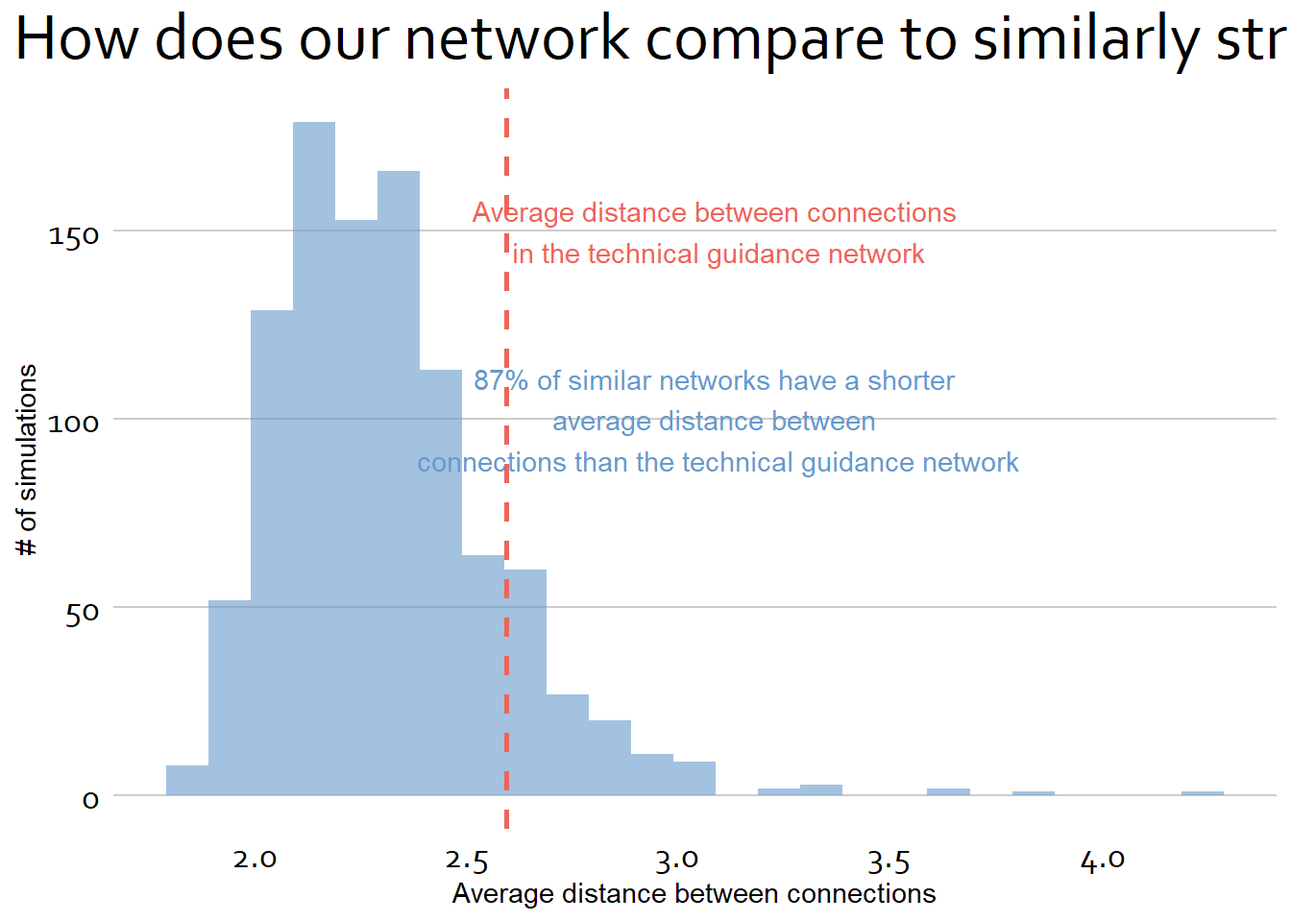
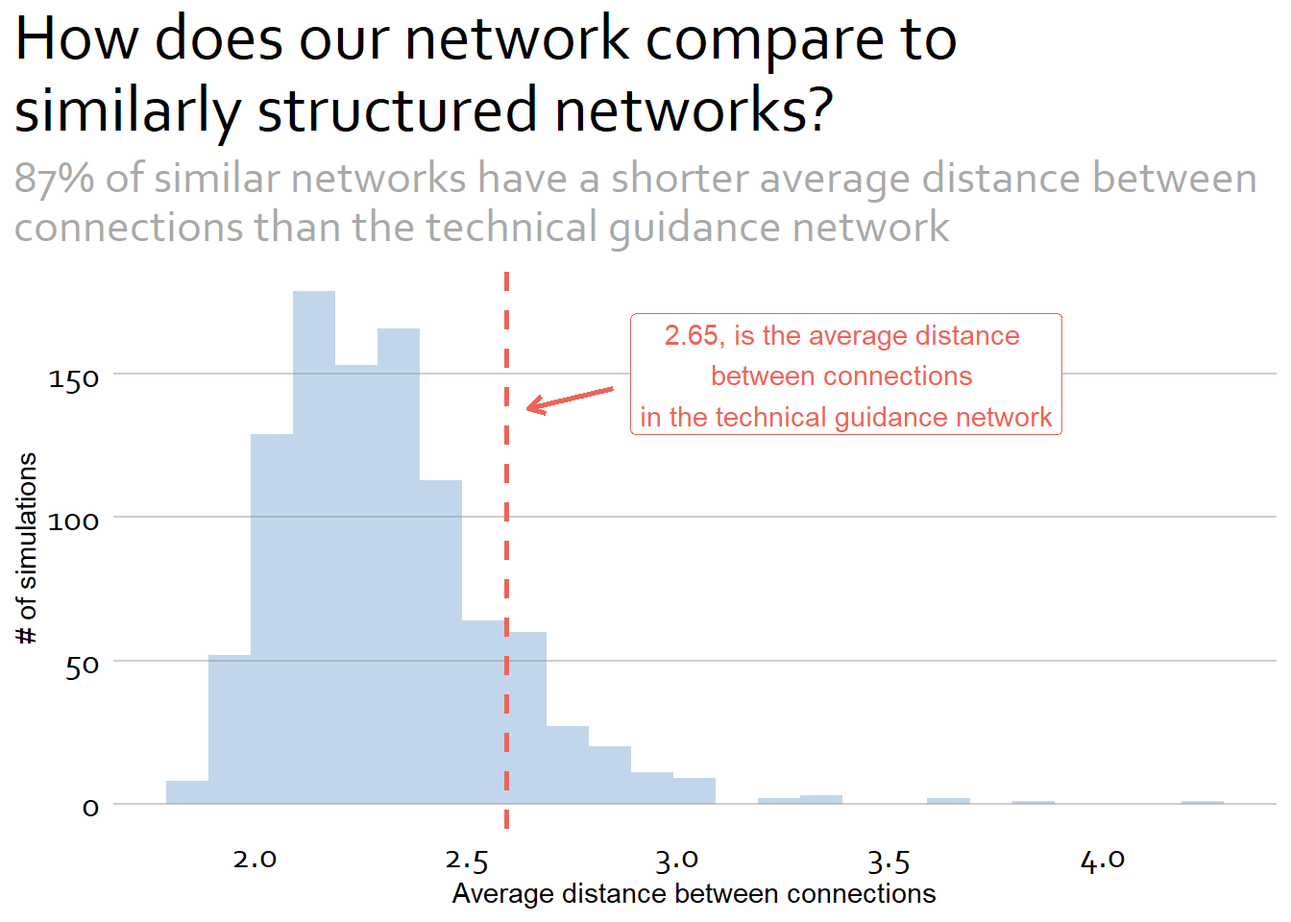
BC

Changed region(s): [[0.0, 0.0938, 0.9688, 0.875], [0.0, 0.375, 0.0938, 0.7188], [0.75, 0.0, 1.0, 0.0625]]

diff --git a/network_analysis_sandbox/scripts/internal_networks.html b/network_analysis_sandbox/scripts/internal_networks.html
@@ -275,14 +275,14 @@ code span.wa { color: #60a0b0; font-weight: bold; font-style: italic; } /* Warni
 <span id="cb4-33"><a href="#cb4-33" aria-hidden="true" tabindex="-1"></a>table2</span>
 <span id="cb4-34"><a href="#cb4-34" aria-hidden="true" tabindex="-1"></a><span class="in">```</span></span></code><button title="Copy to Clipboard" class="code-copy-button"><i class="bi"></i></button></pre></div>
 </details>
-<div id="tbl-anonymous-4054020" class="cell tbl-parent quarto-layout-panel anchored">
+<div id="tbl-anonymous-8921950" class="cell tbl-parent quarto-layout-panel anchored">
 <div class="panel-caption table-caption">
 <p>Network data</p>
 </div>
 <div class="quarto-layout-row quarto-layout-valign-top">
-<div id="tbl-anonymous-4054020-1" class="quarto-layout-cell quarto-layout-cell-subref anchored" data-ref-parent="tbl-anonymous-4054020" style="flex-basis: 50.0%;justify-content: center;">
+<div id="tbl-anonymous-8921950-1" class="quarto-layout-cell quarto-layout-cell-subref anchored" data-ref-parent="tbl-anonymous-8921950" style="flex-basis: 50.0%;justify-content: center;">
 
-<div class="tabwid"><style>.cl-9e35f97e{}.cl-9e2e52aa{font-family:'Arial';font-size:11pt;font-weight:normal;font-style:normal;text-decoration:none;color:rgba(0, 0, 0, 1.00);background-color:transparent;}.cl-9e31c96c{margin:0;text-align:left;border-bottom: 0 solid rgba(0, 0, 0, 1.00);border-top: 0 solid rgba(0, 0, 0, 1.00);border-left: 0 solid rgba(0, 0, 0, 1.00);border-right: 0 solid rgba(0, 0, 0, 1.00);padding-bottom:5pt;padding-top:5pt;padding-left:5pt;padding-right:5pt;line-height: 1;background-color:transparent;}.cl-9e31c976{margin:0;text-align:right;border-bottom: 0 solid rgba(0, 0, 0, 1.00);border-top: 0 solid rgba(0, 0, 0, 1.00);border-left: 0 solid rgba(0, 0, 0, 1.00);border-right: 0 solid rgba(0, 0, 0, 1.00);padding-bottom:5pt;padding-top:5pt;padding-left:5pt;padding-right:5pt;line-height: 1;background-color:transparent;}.cl-9e31d9c0{width:0.75in;background-color:transparent;vertical-align: middle;border-bottom: 2pt solid rgba(102, 102, 102, 1.00);border-top: 2pt solid rgba(102, 102, 102, 1.00);border-left: 0 solid rgba(0, 0, 0, 1.00);border-right: 0 solid rgba(0, 0, 0, 1.00);margin-bottom:0;margin-top:0;margin-left:0;margin-right:0;}.cl-9e31d9ca{width:0.75in;background-color:transparent;vertical-align: middle;border-bottom: 2pt solid rgba(102, 102, 102, 1.00);border-top: 2pt solid rgba(102, 102, 102, 1.00);border-left: 0 solid rgba(0, 0, 0, 1.00);border-right: 0 solid rgba(0, 0, 0, 1.00);margin-bottom:0;margin-top:0;margin-left:0;margin-right:0;}.cl-9e31d9cb{width:0.75in;background-color:transparent;vertical-align: middle;border-bottom: 0 solid rgba(0, 0, 0, 1.00);border-top: 0 solid rgba(0, 0, 0, 1.00);border-left: 0 solid rgba(0, 0, 0, 1.00);border-right: 0 solid rgba(0, 0, 0, 1.00);margin-bottom:0;margin-top:0;margin-left:0;margin-right:0;}.cl-9e31d9cc{width:0.75in;background-color:transparent;vertical-align: middle;border-bottom: 0 solid rgba(0, 0, 0, 1.00);border-top: 0 solid rgba(0, 0, 0, 1.00);border-left: 0 solid rgba(0, 0, 0, 1.00);border-right: 0 solid rgba(0, 0, 0, 1.00);margin-bottom:0;margin-top:0;margin-left:0;margin-right:0;}.cl-9e31d9cd{width:0.75in;background-color:transparent;vertical-align: middle;border-bottom: 2pt solid rgba(102, 102, 102, 1.00);border-top: 0 solid rgba(0, 0, 0, 1.00);border-left: 0 solid rgba(0, 0, 0, 1.00);border-right: 0 solid rgba(0, 0, 0, 1.00);margin-bottom:0;margin-top:0;margin-left:0;margin-right:0;}.cl-9e31d9d4{width:0.75in;background-color:transparent;vertical-align: middle;border-bottom: 2pt solid rgba(102, 102, 102, 1.00);border-top: 0 solid rgba(0, 0, 0, 1.00);border-left: 0 solid rgba(0, 0, 0, 1.00);border-right: 0 solid rgba(0, 0, 0, 1.00);margin-bottom:0;margin-top:0;margin-left:0;margin-right:0;}</style><table class="cl-9e35f97e"><caption>Nodes </caption><thead><tr style="overflow-wrap:break-word;"><td class="cl-9e3b52de"><p class="cl-9e3b43c0"><span class="cl-9e38ae94">from</span></p></td><td class="cl-9e3b52de"><p class="cl-9e3b43c0"><span class="cl-9e38ae94">to</span></p></td><td class="cl-9e3b52df"><p class="cl-9e3b43ca"><span class="cl-9e38ae94">same.dept</span></p></td><td class="cl-9e3b52df"><p class="cl-9e3b43ca"><span class="cl-9e38ae94">friendship</span></p></td><td class="cl-9e3b52df"><p class="cl-9e3b43ca"><span class="cl-9e38ae94">advice</span></p></td></tr></thead><tbody><tr style="overflow-wrap:break-word;"><td class="cl-9e3b52e0"><p class="cl-9e3b43c0"><span class="cl-9e38ae94">Bob</span></p></td><td class="cl-9e3b52e0"><p class="cl-9e3b43c0"><span class="cl-9e38ae94">Alice</span></p></td><td class="cl-9e3b52e8"><p class="cl-9e3b43ca"><span class="cl-9e38ae94">FALSE</span></p></td><td class="cl-9e3b52e8"><p class="cl-9e3b43ca"><span class="cl-9e38ae94">4</span></p></td><td class="cl-9e3b52e8"><p class="cl-9e3b43ca"><span class="cl-9e38ae94">4</span></p></td></tr><tr style="overflow-wrap:break-word;"><td class="cl-9e3b52e0"><p class="cl-9e3b43c0"><span class="cl-9e38ae94">Cecil</span></p></td><td class="cl-9e3b52e0"><p class="cl-9e3b43c0"><span class="cl-9e38ae94">Bob</span></p></td><td class="cl-9e3b52e8"><p class="cl-9e3b43ca"><span class="cl-9e38ae94">FALSE</span></p></td><td class="cl-9e3b52e8"><p class="cl-9e3b43ca"><span class="cl-9e38ae94">5</span></p></td><td class="cl-9e3b52e8"><p class="cl-9e3b43ca"><span class="cl-9e38ae94">5</span></p></td></tr><tr style="overflow-wrap:break-word;"><td class="cl-9e3b52e0"><p class="cl-9e3b43c0"><span class="cl-9e38ae94">Cecil</span></p></td><td class="cl-9e3b52e0"><p class="cl-9e3b43c0"><span class="cl-9e38ae94">Alice</span></p></td><td class="cl-9e3b52e8"><p class="cl-9e3b43ca"><span class="cl-9e38ae94">TRUE</span></p></td><td class="cl-9e3b52e8"><p class="cl-9e3b43ca"><span class="cl-9e38ae94">5</span></p></td><td class="cl-9e3b52e8"><p class="cl-9e3b43ca"><span class="cl-9e38ae94">5</span></p></td></tr><tr style="overflow-wrap:break-word;"><td class="cl-9e3b52e0"><p class="cl-9e3b43c0"><span class="cl-9e38ae94">David</span></p></td><td class="cl-9e3b52e0"><p class="cl-9e3b43c0"><span class="cl-9e38ae94">Alice</span></p></td><td class="cl-9e3b52e8"><p class="cl-9e3b43ca"><span class="cl-9e38ae94">FALSE</span></p></td><td class="cl-9e3b52e8"><p class="cl-9e3b43ca"><span class="cl-9e38ae94">2</span></p></td><td class="cl-9e3b52e8"><p class="cl-9e3b43ca"><span class="cl-9e38ae94">4</span></p></td></tr><tr style="overflow-wrap:break-word;"><td class="cl-9e3b52e0"><p class="cl-9e3b43c0"><span class="cl-9e38ae94">David</span></p></td><td class="cl-9e3b52e0"><p class="cl-9e3b43c0"><span class="cl-9e38ae94">Bob</span></p></td><td class="cl-9e3b52e8"><p class="cl-9e3b43ca"><span class="cl-9e38ae94">FALSE</span></p></td><td class="cl-9e3b52e8"><p class="cl-9e3b43ca"><span class="cl-9e38ae94">1</span></p></td><td class="cl-9e3b52e8"><p class="cl-9e3b43ca"><span class="cl-9e38ae94">2</span></p></td></tr><tr style="overflow-wrap:break-word;"><td class="cl-9e3b52e9"><p class="cl-9e3b43c0"><span class="cl-9e38ae94">Esmeralda</span></p></td><td class="cl-9e3b52e9"><p class="cl-9e3b43c0"><span class="cl-9e38ae94">Alice</span></p></td><td class="cl-9e3b52ea"><p class="cl-9e3b43ca"><span class="cl-9e38ae94">TRUE</span></p></td><td class="cl-9e3b52ea"><p class="cl-9e3b43ca"><span class="cl-9e38ae94">1</span></p></td><td class="cl-9e3b52ea"><p class="cl-9e3b43ca"><span class="cl-9e38ae94">3</span></p></td></tr></tbody></table></div>
+<div class="tabwid"><style>.cl-b61c9c86{}.cl-b6154a8a{font-family:'Arial';font-size:11pt;font-weight:normal;font-style:normal;text-decoration:none;color:rgba(0, 0, 0, 1.00);background-color:transparent;}.cl-b618848e{margin:0;text-align:left;border-bottom: 0 solid rgba(0, 0, 0, 1.00);border-top: 0 solid rgba(0, 0, 0, 1.00);border-left: 0 solid rgba(0, 0, 0, 1.00);border-right: 0 solid rgba(0, 0, 0, 1.00);padding-bottom:5pt;padding-top:5pt;padding-left:5pt;padding-right:5pt;line-height: 1;background-color:transparent;}.cl-b6188498{margin:0;text-align:right;border-bottom: 0 solid rgba(0, 0, 0, 1.00);border-top: 0 solid rgba(0, 0, 0, 1.00);border-left: 0 solid rgba(0, 0, 0, 1.00);border-right: 0 solid rgba(0, 0, 0, 1.00);padding-bottom:5pt;padding-top:5pt;padding-left:5pt;padding-right:5pt;line-height: 1;background-color:transparent;}.cl-b61894ce{width:0.75in;background-color:transparent;vertical-align: middle;border-bottom: 2pt solid rgba(102, 102, 102, 1.00);border-top: 2pt solid rgba(102, 102, 102, 1.00);border-left: 0 solid rgba(0, 0, 0, 1.00);border-right: 0 solid rgba(0, 0, 0, 1.00);margin-bottom:0;margin-top:0;margin-left:0;margin-right:0;}.cl-b61894cf{width:0.75in;background-color:transparent;vertical-align: middle;border-bottom: 2pt solid rgba(102, 102, 102, 1.00);border-top: 2pt solid rgba(102, 102, 102, 1.00);border-left: 0 solid rgba(0, 0, 0, 1.00);border-right: 0 solid rgba(0, 0, 0, 1.00);margin-bottom:0;margin-top:0;margin-left:0;margin-right:0;}.cl-b61894d0{width:0.75in;background-color:transparent;vertical-align: middle;border-bottom: 0 solid rgba(0, 0, 0, 1.00);border-top: 0 solid rgba(0, 0, 0, 1.00);border-left: 0 solid rgba(0, 0, 0, 1.00);border-right: 0 solid rgba(0, 0, 0, 1.00);margin-bottom:0;margin-top:0;margin-left:0;margin-right:0;}.cl-b61894d8{width:0.75in;background-color:transparent;vertical-align: middle;border-bottom: 0 solid rgba(0, 0, 0, 1.00);border-top: 0 solid rgba(0, 0, 0, 1.00);border-left: 0 solid rgba(0, 0, 0, 1.00);border-right: 0 solid rgba(0, 0, 0, 1.00);margin-bottom:0;margin-top:0;margin-left:0;margin-right:0;}.cl-b61894d9{width:0.75in;background-color:transparent;vertical-align: middle;border-bottom: 2pt solid rgba(102, 102, 102, 1.00);border-top: 0 solid rgba(0, 0, 0, 1.00);border-left: 0 solid rgba(0, 0, 0, 1.00);border-right: 0 solid rgba(0, 0, 0, 1.00);margin-bottom:0;margin-top:0;margin-left:0;margin-right:0;}.cl-b61894da{width:0.75in;background-color:transparent;vertical-align: middle;border-bottom: 2pt solid rgba(102, 102, 102, 1.00);border-top: 0 solid rgba(0, 0, 0, 1.00);border-left: 0 solid rgba(0, 0, 0, 1.00);border-right: 0 solid rgba(0, 0, 0, 1.00);margin-bottom:0;margin-top:0;margin-left:0;margin-right:0;}</style><table class="cl-b61c9c86"><caption>Nodes </caption><thead><tr style="overflow-wrap:break-word;"><td class="cl-b621974a"><p class="cl-b6218886"><span class="cl-b61f1718">from</span></p></td><td class="cl-b621974a"><p class="cl-b6218886"><span class="cl-b61f1718">to</span></p></td><td class="cl-b6219754"><p class="cl-b6218890"><span class="cl-b61f1718">same.dept</span></p></td><td class="cl-b6219754"><p class="cl-b6218890"><span class="cl-b61f1718">friendship</span></p></td><td class="cl-b6219754"><p class="cl-b6218890"><span class="cl-b61f1718">advice</span></p></td></tr></thead><tbody><tr style="overflow-wrap:break-word;"><td class="cl-b6219755"><p class="cl-b6218886"><span class="cl-b61f1718">Bob</span></p></td><td class="cl-b6219755"><p class="cl-b6218886"><span class="cl-b61f1718">Alice</span></p></td><td class="cl-b6219756"><p class="cl-b6218890"><span class="cl-b61f1718">FALSE</span></p></td><td class="cl-b6219756"><p class="cl-b6218890"><span class="cl-b61f1718">4</span></p></td><td class="cl-b6219756"><p class="cl-b6218890"><span class="cl-b61f1718">4</span></p></td></tr><tr style="overflow-wrap:break-word;"><td class="cl-b6219755"><p class="cl-b6218886"><span class="cl-b61f1718">Cecil</span></p></td><td class="cl-b6219755"><p class="cl-b6218886"><span class="cl-b61f1718">Bob</span></p></td><td class="cl-b6219756"><p class="cl-b6218890"><span class="cl-b61f1718">FALSE</span></p></td><td class="cl-b6219756"><p class="cl-b6218890"><span class="cl-b61f1718">5</span></p></td><td class="cl-b6219756"><p class="cl-b6218890"><span class="cl-b61f1718">5</span></p></td></tr><tr style="overflow-wrap:break-word;"><td class="cl-b6219755"><p class="cl-b6218886"><span class="cl-b61f1718">Cecil</span></p></td><td class="cl-b6219755"><p class="cl-b6218886"><span class="cl-b61f1718">Alice</span></p></td><td class="cl-b6219756"><p class="cl-b6218890"><span class="cl-b61f1718">TRUE</span></p></td><td class="cl-b6219756"><p class="cl-b6218890"><span class="cl-b61f1718">5</span></p></td><td class="cl-b6219756"><p class="cl-b6218890"><span class="cl-b61f1718">5</span></p></td></tr><tr style="overflow-wrap:break-word;"><td class="cl-b6219755"><p class="cl-b6218886"><span class="cl-b61f1718">David</span></p></td><td class="cl-b6219755"><p class="cl-b6218886"><span class="cl-b61f1718">Alice</span></p></td><td class="cl-b6219756"><p class="cl-b6218890"><span class="cl-b61f1718">FALSE</span></p></td><td class="cl-b6219756"><p class="cl-b6218890"><span class="cl-b61f1718">2</span></p></td><td class="cl-b6219756"><p class="cl-b6218890"><span class="cl-b61f1718">4</span></p></td></tr><tr style="overflow-wrap:break-word;"><td class="cl-b6219755"><p class="cl-b6218886"><span class="cl-b61f1718">David</span></p></td><td class="cl-b6219755"><p class="cl-b6218886"><span class="cl-b61f1718">Bob</span></p></td><td class="cl-b6219756"><p class="cl-b6218890"><span class="cl-b61f1718">FALSE</span></p></td><td class="cl-b6219756"><p class="cl-b6218890"><span class="cl-b61f1718">1</span></p></td><td class="cl-b6219756"><p class="cl-b6218890"><span class="cl-b61f1718">2</span></p></td></tr><tr style="overflow-wrap:break-word;"><td class="cl-b621975e"><p class="cl-b6218886"><span class="cl-b61f1718">Esmeralda</span></p></td><td class="cl-b621975e"><p class="cl-b6218886"><span class="cl-b61f1718">Alice</span></p></td><td class="cl-b621975f"><p class="cl-b6218890"><span class="cl-b61f1718">TRUE</span></p></td><td class="cl-b621975f"><p class="cl-b6218890"><span class="cl-b61f1718">1</span></p></td><td class="cl-b621975f"><p class="cl-b6218890"><span class="cl-b61f1718">3</span></p></td></tr></tbody></table></div>
 </div>
 </div>
 </div>
@@ -320,7 +320,7 @@ code span.wa { color: #60a0b0; font-weight: bold; font-style: italic; } /* Warni
 <div class="cell">
 <div class="cell-output-display">
 
-<div class="tabwid"><style>.cl-9eaf31c2{}.cl-9ea7d4c2{font-family:'Arial';font-size:11pt;font-weight:normal;font-style:normal;text-decoration:none;color:rgba(0, 0, 0, 1.00);background-color:transparent;}.cl-9eab12ae{margin:0;text-align:center;border-bottom: 0 solid rgba(0, 0, 0, 1.00);border-top: 0 solid rgba(0, 0, 0, 1.00);border-left: 0 solid rgba(0, 0, 0, 1.00);border-right: 0 solid rgba(0, 0, 0, 1.00);padding-bottom:5pt;padding-top:5pt;padding-left:5pt;padding-right:5pt;line-height: 1;background-color:transparent;}.cl-9eab28ac{width:0.75in;background-color:transparent;vertical-align: middle;border-bottom: 2pt solid rgba(102, 102, 102, 1.00);border-top: 2pt solid rgba(102, 102, 102, 1.00);border-left: 0 solid rgba(0, 0, 0, 1.00);border-right: 0 solid rgba(0, 0, 0, 1.00);margin-bottom:0;margin-top:0;margin-left:0;margin-right:0;}.cl-9eab28b6{width:0.75in;background-color:transparent;vertical-align: middle;border-bottom: 2pt solid rgba(102, 102, 102, 1.00);border-top: 0 solid rgba(0, 0, 0, 1.00);border-left: 0 solid rgba(0, 0, 0, 1.00);border-right: 0 solid rgba(0, 0, 0, 1.00);margin-bottom:0;margin-top:0;margin-left:0;margin-right:0;}</style><table class="cl-9eaf31c2"><thead><tr style="overflow-wrap:break-word;"><td class="cl-9eab28ac"><p class="cl-9eab12ae"><span class="cl-9ea7d4c2">Network</span></p></td><td class="cl-9eab28ac"><p class="cl-9eab12ae"><span class="cl-9ea7d4c2">Density</span></p></td><td class="cl-9eab28ac"><p class="cl-9eab12ae"><span class="cl-9ea7d4c2">Avg. Distance</span></p></td><td class="cl-9eab28ac"><p class="cl-9eab12ae"><span class="cl-9ea7d4c2">Transitivity</span></p></td><td class="cl-9eab28ac"><p class="cl-9eab12ae"><span class="cl-9ea7d4c2">Betweenness</span></p></td><td class="cl-9eab28ac"><p class="cl-9eab12ae"><span class="cl-9ea7d4c2">Eigenvalue</span></p></td></tr></thead><tbody><tr style="overflow-wrap:break-word;"><td class="cl-9eab28b6"><p class="cl-9eab12ae"><span class="cl-9ea7d4c2">Mentorship</span></p></td><td class="cl-9eab28b6"><p class="cl-9eab12ae"><span class="cl-9ea7d4c2">0.15</span></p></td><td class="cl-9eab28b6"><p class="cl-9eab12ae"><span class="cl-9ea7d4c2">2.69</span></p></td><td class="cl-9eab28b6"><p class="cl-9eab12ae"><span class="cl-9ea7d4c2">0.15</span></p></td><td class="cl-9eab28b6"><p class="cl-9eab12ae"><span class="cl-9ea7d4c2">14.39</span></p></td><td class="cl-9eab28b6"><p class="cl-9eab12ae"><span class="cl-9ea7d4c2">0.33</span></p></td></tr></tbody></table></div>
+<div class="tabwid"><style>.cl-b68d8ac2{}.cl-b6867b88{font-family:'Arial';font-size:11pt;font-weight:normal;font-style:normal;text-decoration:none;color:rgba(0, 0, 0, 1.00);background-color:transparent;}.cl-b6897298{margin:0;text-align:center;border-bottom: 0 solid rgba(0, 0, 0, 1.00);border-top: 0 solid rgba(0, 0, 0, 1.00);border-left: 0 solid rgba(0, 0, 0, 1.00);border-right: 0 solid rgba(0, 0, 0, 1.00);padding-bottom:5pt;padding-top:5pt;padding-left:5pt;padding-right:5pt;line-height: 1;background-color:transparent;}.cl-b68982b0{width:0.75in;background-color:transparent;vertical-align: middle;border-bottom: 2pt solid rgba(102, 102, 102, 1.00);border-top: 2pt solid rgba(102, 102, 102, 1.00);border-left: 0 solid rgba(0, 0, 0, 1.00);border-right: 0 solid rgba(0, 0, 0, 1.00);margin-bottom:0;margin-top:0;margin-left:0;margin-right:0;}.cl-b68982b1{width:0.75in;background-color:transparent;vertical-align: middle;border-bottom: 2pt solid rgba(102, 102, 102, 1.00);border-top: 0 solid rgba(0, 0, 0, 1.00);border-left: 0 solid rgba(0, 0, 0, 1.00);border-right: 0 solid rgba(0, 0, 0, 1.00);margin-bottom:0;margin-top:0;margin-left:0;margin-right:0;}</style><table class="cl-b68d8ac2"><thead><tr style="overflow-wrap:break-word;"><td class="cl-b68982b0"><p class="cl-b6897298"><span class="cl-b6867b88">Network</span></p></td><td class="cl-b68982b0"><p class="cl-b6897298"><span class="cl-b6867b88">Density</span></p></td><td class="cl-b68982b0"><p class="cl-b6897298"><span class="cl-b6867b88">Avg. Distance</span></p></td><td class="cl-b68982b0"><p class="cl-b6897298"><span class="cl-b6867b88">Transitivity</span></p></td><td class="cl-b68982b0"><p class="cl-b6897298"><span class="cl-b6867b88">Betweenness</span></p></td><td class="cl-b68982b0"><p class="cl-b6897298"><span class="cl-b6867b88">Eigenvalue</span></p></td></tr></thead><tbody><tr style="overflow-wrap:break-word;"><td class="cl-b68982b1"><p class="cl-b6897298"><span class="cl-b6867b88">Mentorship</span></p></td><td class="cl-b68982b1"><p class="cl-b6897298"><span class="cl-b6867b88">0.15</span></p></td><td class="cl-b68982b1"><p class="cl-b6897298"><span class="cl-b6867b88">2.69</span></p></td><td class="cl-b68982b1"><p class="cl-b6897298"><span class="cl-b6867b88">0.15</span></p></td><td class="cl-b68982b1"><p class="cl-b6897298"><span class="cl-b6867b88">14.39</span></p></td><td class="cl-b68982b1"><p class="cl-b6897298"><span class="cl-b6867b88">0.33</span></p></td></tr></tbody></table></div>
 </div>
 </div>
 <p>Within the SEA practice area we had 18 nodes in our network consisting of 23 edges.</p>
@@ -405,7 +405,7 @@ code span.wa { color: #60a0b0; font-weight: bold; font-style: italic; } /* Warni
 </details>
 <div class="cell-output-display">
 
-<div class="tabwid"><style>.cl-9f3603b4{}.cl-9f2efc5e{font-family:'Arial';font-size:11pt;font-weight:normal;font-style:normal;text-decoration:none;color:rgba(0, 0, 0, 1.00);background-color:transparent;}.cl-9f317754{margin:0;text-align:center;border-bottom: 0 solid rgba(0, 0, 0, 1.00);border-top: 0 solid rgba(0, 0, 0, 1.00);border-left: 0 solid rgba(0, 0, 0, 1.00);border-right: 0 solid rgba(0, 0, 0, 1.00);padding-bottom:5pt;padding-top:5pt;padding-left:5pt;padding-right:5pt;line-height: 1;background-color:transparent;}.cl-9f318712{width:0.75in;background-color:transparent;vertical-align: middle;border-bottom: 2pt solid rgba(102, 102, 102, 1.00);border-top: 2pt solid rgba(102, 102, 102, 1.00);border-left: 0 solid rgba(0, 0, 0, 1.00);border-right: 0 solid rgba(0, 0, 0, 1.00);margin-bottom:0;margin-top:0;margin-left:0;margin-right:0;}.cl-9f31871c{width:0.75in;background-color:transparent;vertical-align: middle;border-bottom: 0 solid rgba(0, 0, 0, 1.00);border-top: 0 solid rgba(0, 0, 0, 1.00);border-left: 0 solid rgba(0, 0, 0, 1.00);border-right: 0 solid rgba(0, 0, 0, 1.00);margin-bottom:0;margin-top:0;margin-left:0;margin-right:0;}.cl-9f318726{width:0.75in;background-color:transparent;vertical-align: middle;border-bottom: 2pt solid rgba(102, 102, 102, 1.00);border-top: 0 solid rgba(0, 0, 0, 1.00);border-left: 0 solid rgba(0, 0, 0, 1.00);border-right: 0 solid rgba(0, 0, 0, 1.00);margin-bottom:0;margin-top:0;margin-left:0;margin-right:0;}</style><table class="cl-9f3603b4"><thead><tr style="overflow-wrap:break-word;"><td class="cl-9f318712"><p class="cl-9f317754"><span class="cl-9f2efc5e">Network</span></p></td><td class="cl-9f318712"><p class="cl-9f317754"><span class="cl-9f2efc5e">Density</span></p></td><td class="cl-9f318712"><p class="cl-9f317754"><span class="cl-9f2efc5e">Avg. Distance</span></p></td><td class="cl-9f318712"><p class="cl-9f317754"><span class="cl-9f2efc5e">Transitivity</span></p></td><td class="cl-9f318712"><p class="cl-9f317754"><span class="cl-9f2efc5e">Betweenness</span></p></td><td class="cl-9f318712"><p class="cl-9f317754"><span class="cl-9f2efc5e">Eigenvalue</span></p></td></tr></thead><tbody><tr style="overflow-wrap:break-word;"><td class="cl-9f31871c"><p class="cl-9f317754"><span class="cl-9f2efc5e">Mentorship</span></p></td><td class="cl-9f31871c"><p class="cl-9f317754"><span class="cl-9f2efc5e">0.15</span></p></td><td class="cl-9f31871c"><p class="cl-9f317754"><span class="cl-9f2efc5e">2.69</span></p></td><td class="cl-9f31871c"><p class="cl-9f317754"><span class="cl-9f2efc5e">0.15</span></p></td><td class="cl-9f31871c"><p class="cl-9f317754"><span class="cl-9f2efc5e">14.39</span></p></td><td class="cl-9f31871c"><p class="cl-9f317754"><span class="cl-9f2efc5e">0.33</span></p></td></tr><tr style="overflow-wrap:break-word;"><td class="cl-9f318726"><p class="cl-9f317754"><span class="cl-9f2efc5e">Tech guidance</span></p></td><td class="cl-9f318726"><p class="cl-9f317754"><span class="cl-9f2efc5e">0.19</span></p></td><td class="cl-9f318726"><p class="cl-9f317754"><span class="cl-9f2efc5e">2.65</span></p></td><td class="cl-9f318726"><p class="cl-9f317754"><span class="cl-9f2efc5e">0.35</span></p></td><td class="cl-9f318726"><p class="cl-9f317754"><span class="cl-9f2efc5e">14.84</span></p></td><td class="cl-9f318726"><p class="cl-9f317754"><span class="cl-9f2efc5e">0.34</span></p></td></tr></tbody></table></div>
+<div class="tabwid"><style>.cl-b70ecdc6{}.cl-b70719d2{font-family:'Arial';font-size:11pt;font-weight:normal;font-style:normal;text-decoration:none;color:rgba(0, 0, 0, 1.00);background-color:transparent;}.cl-b709e36a{margin:0;text-align:center;border-bottom: 0 solid rgba(0, 0, 0, 1.00);border-top: 0 solid rgba(0, 0, 0, 1.00);border-left: 0 solid rgba(0, 0, 0, 1.00);border-right: 0 solid rgba(0, 0, 0, 1.00);padding-bottom:5pt;padding-top:5pt;padding-left:5pt;padding-right:5pt;line-height: 1;background-color:transparent;}.cl-b709f288{width:0.75in;background-color:transparent;vertical-align: middle;border-bottom: 2pt solid rgba(102, 102, 102, 1.00);border-top: 2pt solid rgba(102, 102, 102, 1.00);border-left: 0 solid rgba(0, 0, 0, 1.00);border-right: 0 solid rgba(0, 0, 0, 1.00);margin-bottom:0;margin-top:0;margin-left:0;margin-right:0;}.cl-b709f289{width:0.75in;background-color:transparent;vertical-align: middle;border-bottom: 0 solid rgba(0, 0, 0, 1.00);border-top: 0 solid rgba(0, 0, 0, 1.00);border-left: 0 solid rgba(0, 0, 0, 1.00);border-right: 0 solid rgba(0, 0, 0, 1.00);margin-bottom:0;margin-top:0;margin-left:0;margin-right:0;}.cl-b709f292{width:0.75in;background-color:transparent;vertical-align: middle;border-bottom: 2pt solid rgba(102, 102, 102, 1.00);border-top: 0 solid rgba(0, 0, 0, 1.00);border-left: 0 solid rgba(0, 0, 0, 1.00);border-right: 0 solid rgba(0, 0, 0, 1.00);margin-bottom:0;margin-top:0;margin-left:0;margin-right:0;}</style><table class="cl-b70ecdc6"><thead><tr style="overflow-wrap:break-word;"><td class="cl-b709f288"><p class="cl-b709e36a"><span class="cl-b70719d2">Network</span></p></td><td class="cl-b709f288"><p class="cl-b709e36a"><span class="cl-b70719d2">Density</span></p></td><td class="cl-b709f288"><p class="cl-b709e36a"><span class="cl-b70719d2">Avg. Distance</span></p></td><td class="cl-b709f288"><p class="cl-b709e36a"><span class="cl-b70719d2">Transitivity</span></p></td><td class="cl-b709f288"><p class="cl-b709e36a"><span class="cl-b70719d2">Betweenness</span></p></td><td class="cl-b709f288"><p class="cl-b709e36a"><span class="cl-b70719d2">Eigenvalue</span></p></td></tr></thead><tbody><tr style="overflow-wrap:break-word;"><td class="cl-b709f289"><p class="cl-b709e36a"><span class="cl-b70719d2">Mentorship</span></p></td><td class="cl-b709f289"><p class="cl-b709e36a"><span class="cl-b70719d2">0.15</span></p></td><td class="cl-b709f289"><p class="cl-b709e36a"><span class="cl-b70719d2">2.69</span></p></td><td class="cl-b709f289"><p class="cl-b709e36a"><span class="cl-b70719d2">0.15</span></p></td><td class="cl-b709f289"><p class="cl-b709e36a"><span class="cl-b70719d2">14.39</span></p></td><td class="cl-b709f289"><p class="cl-b709e36a"><span class="cl-b70719d2">0.33</span></p></td></tr><tr style="overflow-wrap:break-word;"><td class="cl-b709f292"><p class="cl-b709e36a"><span class="cl-b70719d2">Tech guidance</span></p></td><td class="cl-b709f292"><p class="cl-b709e36a"><span class="cl-b70719d2">0.19</span></p></td><td class="cl-b709f292"><p class="cl-b709e36a"><span class="cl-b70719d2">2.65</span></p></td><td class="cl-b709f292"><p class="cl-b709e36a"><span class="cl-b70719d2">0.35</span></p></td><td class="cl-b709f292"><p class="cl-b709e36a"><span class="cl-b70719d2">14.84</span></p></td><td class="cl-b709f292"><p class="cl-b709e36a"><span class="cl-b70719d2">0.34</span></p></td></tr></tbody></table></div>
 </div>
 </div>
 <p>How do these statistics compare with what we would expect from similar networks? We can run some simulations to find out.</p>
@@ -458,18 +458,23 @@ code span.wa { color: #60a0b0; font-weight: bold; font-style: italic; } /* Warni
 <span id="cb12-14"><a href="#cb12-14" aria-hidden="true" tabindex="-1"></a><span class="fu">ggplot</span>(<span class="at">data =</span> <span class="fu">as.data.frame</span>(gl_tech.apls)) <span class="sc">+</span></span>
 <span id="cb12-15"><a href="#cb12-15" aria-hidden="true" tabindex="-1"></a>  <span class="fu">geom_histogram</span>(<span class="fu">aes</span>(<span class="at">x =</span> gl_tech.apls), <span class="at">bins =</span> <span class="dv">25</span></span>
 <span id="cb12-16"><a href="#cb12-16" aria-hidden="true" tabindex="-1"></a>                 , <span class="at">fill =</span> my_pal[[<span class="dv">11</span>]]</span>
-<span id="cb12-17"><a href="#cb12-17" aria-hidden="true" tabindex="-1"></a>                 , <span class="at">alpha =</span> .<span class="dv">6</span>) <span class="sc">+</span></span>
+<span id="cb12-17"><a href="#cb12-17" aria-hidden="true" tabindex="-1"></a>                 , <span class="at">alpha =</span> .<span class="dv">4</span>) <span class="sc">+</span></span>
 <span id="cb12-18"><a href="#cb12-18" aria-hidden="true" tabindex="-1"></a>  <span class="fu">geom_vline</span>(<span class="at">xintercept =</span> avg_dist_tech</span>
 <span id="cb12-19"><a href="#cb12-19" aria-hidden="true" tabindex="-1"></a>             , <span class="at">linewidth =</span> <span class="dv">1</span></span>
 <span id="cb12-20"><a href="#cb12-20" aria-hidden="true" tabindex="-1"></a>             , <span class="at">linetype =</span> <span class="st">"dashed"</span></span>
 <span id="cb12-21"><a href="#cb12-21" aria-hidden="true" tabindex="-1"></a>             , <span class="at">color =</span> my_pal[[<span class="dv">14</span>]]) <span class="sc">+</span></span>
-<span id="cb12-22"><a href="#cb12-22" aria-hidden="true" tabindex="-1"></a>  <span class="fu">annotate</span>(<span class="at">x =</span> avg_dist_tech <span class="sc">+</span> .<span class="dv">5</span>, <span class="at">y =</span> <span class="dv">150</span>, <span class="at">label =</span> <span class="st">"Average distance between connections </span><span class="sc">\n</span><span class="st">in the technical guidance network"</span>, <span class="at">geom =</span> <span class="st">"text"</span>, <span class="at">color =</span> my_pal[[<span class="dv">14</span>]]) <span class="sc">+</span></span>
-<span id="cb12-23"><a href="#cb12-23" aria-hidden="true" tabindex="-1"></a>  <span class="fu">annotate</span>(<span class="at">x =</span> avg_dist_tech <span class="sc">+</span> .<span class="dv">5</span>, <span class="at">y =</span> <span class="dv">100</span></span>
-<span id="cb12-24"><a href="#cb12-24" aria-hidden="true" tabindex="-1"></a>           , <span class="at">label =</span> glue<span class="sc">::</span><span class="fu">glue</span>(<span class="st">"{mean(gl_tech.apls &lt; avg_dist_tech) * 100}"</span>, <span class="st">"% "</span>, <span class="st">"of similar networks have a shorter </span><span class="sc">\n</span><span class="st">average distance between </span><span class="sc">\n</span><span class="st">connections than the technical guidance network"</span>), <span class="at">geom =</span> <span class="st">"text"</span>, <span class="at">color =</span> my_pal[[<span class="dv">11</span>]])<span class="sc">+</span></span>
-<span id="cb12-25"><a href="#cb12-25" aria-hidden="true" tabindex="-1"></a>  <span class="fu">labs</span>(<span class="at">y =</span> <span class="st">"# of simulations"</span></span>
-<span id="cb12-26"><a href="#cb12-26" aria-hidden="true" tabindex="-1"></a>       , <span class="at">x =</span> <span class="st">"Average distance between connections"</span></span>
-<span id="cb12-27"><a href="#cb12-27" aria-hidden="true" tabindex="-1"></a>       , <span class="at">title =</span> <span class="st">"How does our network compare to similarly structured networks?"</span>)<span class="sc">+</span></span>
-<span id="cb12-28"><a href="#cb12-28" aria-hidden="true" tabindex="-1"></a>  <span class="fu">theme.plot</span>()</span></code><button title="Copy to Clipboard" class="code-copy-button"><i class="bi"></i></button></pre></div>
+<span id="cb12-22"><a href="#cb12-22" aria-hidden="true" tabindex="-1"></a>  <span class="fu">annotate</span>(<span class="at">x =</span> avg_dist_tech <span class="sc">+</span> .<span class="dv">8</span>, <span class="at">y =</span> <span class="dv">150</span>, <span class="at">label =</span> glue<span class="sc">::</span><span class="fu">glue</span>(<span class="st">"{round(avg_dist_tech, digits = 2)}, is the average distance </span><span class="sc">\n</span><span class="st">between connections </span><span class="sc">\n</span><span class="st">in the technical guidance network"</span>), <span class="at">geom =</span> <span class="st">"label"</span>, <span class="at">color =</span> my_pal[[<span class="dv">14</span>]]) <span class="sc">+</span></span>
+<span id="cb12-23"><a href="#cb12-23" aria-hidden="true" tabindex="-1"></a>  <span class="fu">geom_segment</span>(<span class="fu">aes</span>(<span class="at">x =</span> avg_dist_tech <span class="sc">+</span> .<span class="dv">25</span>, <span class="at">y =</span> <span class="dv">145</span>, <span class="at">xend =</span> avg_dist_tech <span class="sc">+</span>.<span class="dv">05</span>, <span class="at">yend =</span> <span class="dv">138</span>),</span>
+<span id="cb12-24"><a href="#cb12-24" aria-hidden="true" tabindex="-1"></a>                  <span class="at">arrow =</span> <span class="fu">arrow</span>(<span class="at">length =</span> <span class="fu">unit</span>(<span class="fl">0.25</span>, <span class="st">"cm"</span>))</span>
+<span id="cb12-25"><a href="#cb12-25" aria-hidden="true" tabindex="-1"></a>               , <span class="at">linewidth =</span> <span class="dv">1</span></span>
+<span id="cb12-26"><a href="#cb12-26" aria-hidden="true" tabindex="-1"></a>               , <span class="at">color =</span> my_pal[[<span class="dv">14</span>]])<span class="sc">+</span></span>
+<span id="cb12-27"><a href="#cb12-27" aria-hidden="true" tabindex="-1"></a><span class="co">#  annotate(x = avg_dist_tech + .75, y = 100</span></span>
+<span id="cb12-28"><a href="#cb12-28" aria-hidden="true" tabindex="-1"></a><span class="co">#           , label = glue::glue("{mean(gl_tech.apls &lt; avg_dist_tech) * 100}", "% ", "of similar networks have a #shorter average distance between connections \nthan the technical guidance network"), geom = "label", color = #my_pal[[11]])+</span></span>
+<span id="cb12-29"><a href="#cb12-29" aria-hidden="true" tabindex="-1"></a>  <span class="fu">labs</span>(<span class="at">y =</span> <span class="st">"# of simulations"</span></span>
+<span id="cb12-30"><a href="#cb12-30" aria-hidden="true" tabindex="-1"></a>       , <span class="at">x =</span> <span class="st">"Average distance between connections"</span></span>
+<span id="cb12-31"><a href="#cb12-31" aria-hidden="true" tabindex="-1"></a>       , <span class="at">title =</span> <span class="st">"How does our network compare to </span><span class="sc">\n</span><span class="st">similarly structured networks?"</span></span>
+<span id="cb12-32"><a href="#cb12-32" aria-hidden="true" tabindex="-1"></a>       , <span class="at">subtitle =</span> glue<span class="sc">::</span><span class="fu">glue</span>(<span class="st">"{mean(gl_tech.apls &lt; avg_dist_tech) * 100}"</span>, <span class="st">"% "</span>, <span class="st">"of similar networks have a shorter average distance between </span><span class="sc">\n</span><span class="st">connections than the technical guidance network"</span>))<span class="sc">+</span></span>
+<span id="cb12-33"><a href="#cb12-33" aria-hidden="true" tabindex="-1"></a>  <span class="fu">theme.plot</span>()</span></code><button title="Copy to Clipboard" class="code-copy-button"><i class="bi"></i></button></pre></div>
 </details>
 <div class="cell-output-display">
 <p><img src="internal_networks_files/figure-html/unnamed-chunk-12-1.png" class="img-fluid" width="672"></p>
